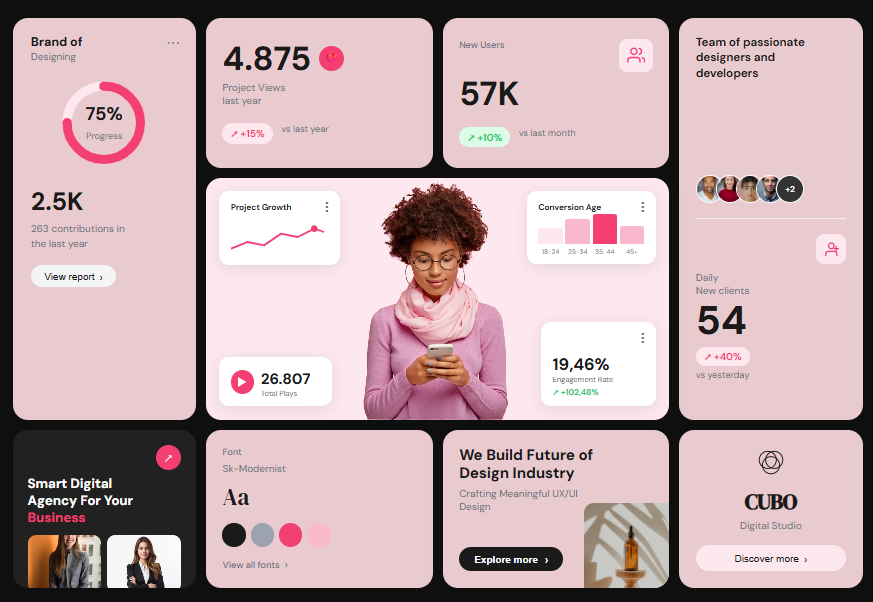
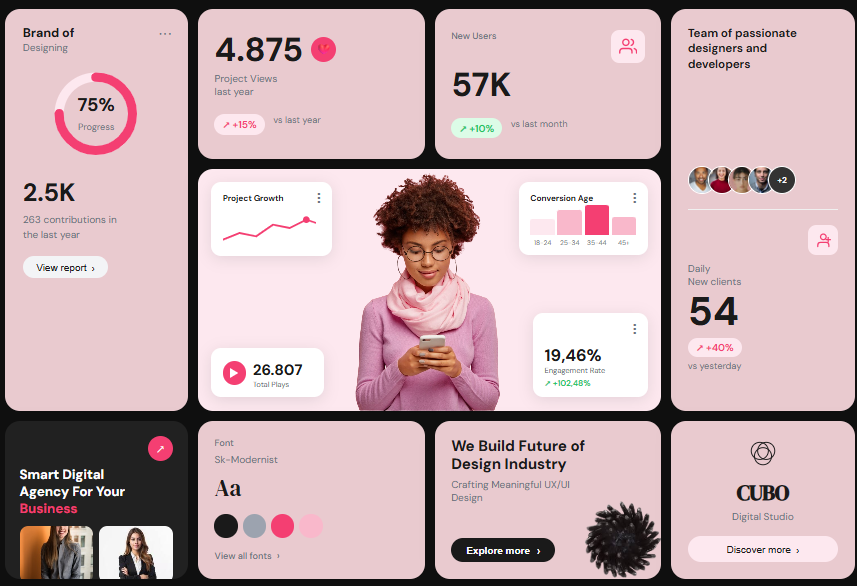
assignment4

diff --git a/assignment4/design1/index.html b/assignment4/design1/index.html
@@ -234,7 +234,7 @@
     <p class="future-sub">Crafting Meaningful UX/UI Design</p>
     <button class="explore-btn">Explore more <span class="arrow-right">›</span></button>
     <img class="future-deco"
-         src="https://images.unsplash.com/photo-1608571423902-eed4a5ad8108?w=200&h=200&fit=crop"
+         src="./spiral-removebg-preview.png"
          alt="3D decorative"/>
   </div>
 
